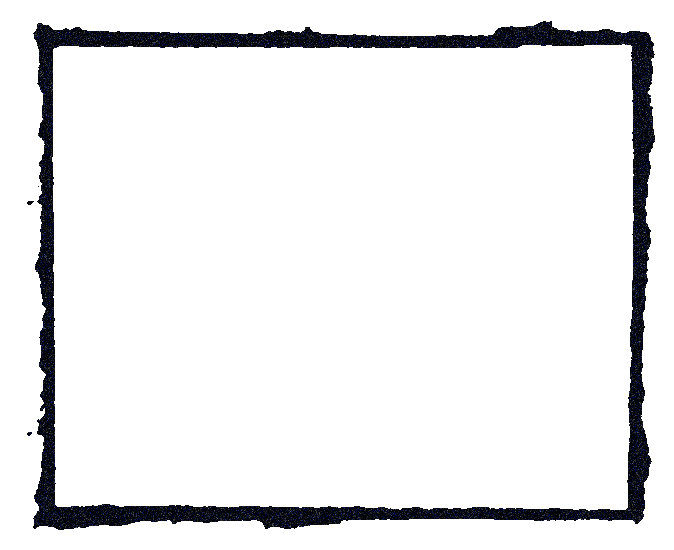
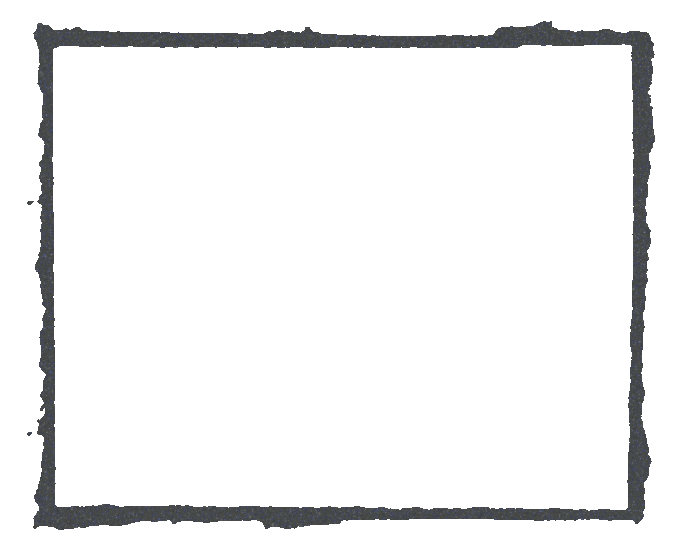
wiki

Changed region(s): [[0.0312, 0.0309, 0.997, 0.9582]]

diff --git a/docs/.vuepress/components/YouTube.vue b/docs/.vuepress/components/YouTube.vue
@@ -42,7 +42,7 @@ export default {
 <style lang="stylus" scoped>
         
     .video-box        
-        filter grayscale(37%) sepia(10%) contrast(95%) brightness(97%)
+        //filter grayscale(37%) sepia(10%) contrast(95%) brightness(97%)
         cursor pointer
         min-width 100%
         margin 2.75rem 0
@@ -65,13 +65,12 @@ export default {
         width 100%
         max-widht 100%
         height 100%
-        background rgba(255,255,255,.5)
-        opacity .85
+        opacity .97
         background-image url('/img/video.svg')
         background-repeat no-repeat
         background-size 33%
         background-position center
-        background-color $accentColor
+        background-color rgba(188,122,122,.85)
         box-sizing border-box
         overflow hidden
 
@@ -100,8 +99,8 @@ export default {
         width 100%
         max-width 100% !important
         position relative
-        background-color #aaa
-        background-blend-mode soft-light
+        background-color #111
+        background-blend-mode luminosity
 
     .youtube, iframe, .youtube:before 
         max-height 40vh !important  

diff --git a/docs/.vuepress/config.js b/docs/.vuepress/config.js
@@ -36,7 +36,7 @@ module.exports = {
         { text: 'über uns', link: '/about.html' },
         { text: 'wann und wo', link: '/wann-und-wo.html' },
         { text: 'mitmachen', link: '/mitmachen.html' },
-        { text: 'Wiki', link: '/grundtechniken/schlaege/' },
+        { text: 'Wiki', link: '/wiki.html' },
 
     ],
     sidebar: [

diff --git a/docs/.vuepress/theme/components/Home.vue b/docs/.vuepress/theme/components/Home.vue
@@ -64,8 +64,7 @@ export default {
 </script>
 
 <style lang="stylus">
-
-.theme-default-content
+.home .theme-default-content
   margin-bottom 100vh !important
   padding-bottom 4.5rem !important
 

diff --git a/docs/mitmachen.md b/docs/mitmachen.md
@@ -32,11 +32,11 @@ Derzeit haben wir noch keinen Termin für einen neuen Schnupperkurs. Sobald die 
 
 ::: tip 
 
-#### Übersicht
+#### Allgemein
 
 - Regelmäßig fallen bei uns Beiträge für die Mitgliedschaft in unserem Hauptverein, der TG Witten, und der Abteilung an (siehe Mitgliedsbeiträge)
 - Einmalig müsst ihr in einen Karateanzug investieren. (In den ersten Wochen reicht aber normales Sportzeug.) *Ein Karateanzug kostet ca. 20€ bis 60€.*
-- Die Teilnahme an den Gürtelprüfungen ist freiwillig. Die Prüfungsgebühr beträgt *12€ bis 18 Jahre / 15€ ab 18 Jahren.*
+- Die Teilnahme an den Gürtelprüfungen ist freiwillig. *Die Prüfungsgebühr beträgt 12€ bis 18 Jahre / 15€ ab 18 Jahren.*
 - Nach Bestehen einer Prüfung braucht ihr natürlich einen neuen Gürtel mit eurer aktuellen Gurtfarbe. *Ein Gürtel kostet ca. 6€.*
 - Falls ihr zu Lehrgängen und/oder Turnieren fahren möchtet, fallen dafür auch entsprechende Kosten an.
 
@@ -44,7 +44,7 @@ Derzeit haben wir noch keinen Termin für einen neuen Schnupperkurs. Sobald die 
 
 ::: tip 
 
-#### Mitgliedsbeiträge (Stand 01.01.2019)
+#### Mitgliedsbeiträge
 
 - Kinder und Jugendliche bis 18 Jahre: 6€ / Monat
 - Erwachsene: 12€ / Monat + 20€ / Jahr Verzehrumlage

diff --git a/docs/datenschutz.md b/docs/datenschutz.md
@@ -15,7 +15,7 @@ Wir freuen uns sehr über Ihr Interesse an unserem Verein. Datenschutz hat einen
 - Diese WebApp verwendet den Cache Deines Browsers um eine Grundfunktionalität im Offlinemodus bereitzustellen. Diese Daten sind aus technischen Gründen erforderlich und werden lokal auf Deinem Endgerät gespeichert.
 - Diese Seite wird von *Netlify* gehostet; Neltlify wird ebenfalls Daten für Nutzungsstatistiken erheben. Für diese Erhebung ist ausschließlich Netlify verantwortlich.
 - Es sind Videos von *Youtube* eingebunden. Youtube erhebt eigene Daten, sobald ein Video angeschaut wird. Für diese Erhebung ist ausschließlich Youtube verantwortlich.
-- Es sind *GoogleMaps* karten eingebunden; Google wird ebenfalls Daten sammeln und ist dafür sebst verantwortlich zu machen.
+- Es sind Karten von *GoogleMaps* eingebunden; Google wird ebenfalls Daten sammeln und ist dafür sebst verantwortlich zu machen.
 - Grundsätzlich wird keine Haftung für die Inhalte extern verlinkter Seiten übernommen.
 
 :::

diff --git a/docs/wiki.md b/docs/wiki.md
@@ -1,0 +1,7 @@
+![Busaganashi](/img/busaganashi.png)
+
+Der Busaganashi ist eine taoistische Kampfkunstgottheit (Kami), die von vielen Goju Ryu Praktizierenden in Okinawa verehrt wird.
+
+Laut Miyazato Sensei vom Jundokan verehrte Miyagi Chojun (als Shintoist) jeden Tag den Busaganashi Kami. Bei dem Luftangriff in Okinawa während des Zweiten Weltkriegs wurde Miyagis Bild des Busaganashi (das er auf seinen Reisen in China erworben hatte) zusammen mit vielen anderen Besitztümern zerstört.
+
+Berichten zufolge reiste einer seiner Schüler, der zuvor eine Skizze des Busaganashi angefertigt hatte, als er die Traurigkeit seiner Lehrer spürte, in die Philippinen, um eine dreidimensionale Statue des Busaganashi anfertigen zu lassen. Der Student überreichte die Statue dann Miyagi. Anscheinend war die Geste so überwältigend, dass der Karate-Meister zu Tränen gerührt war.
